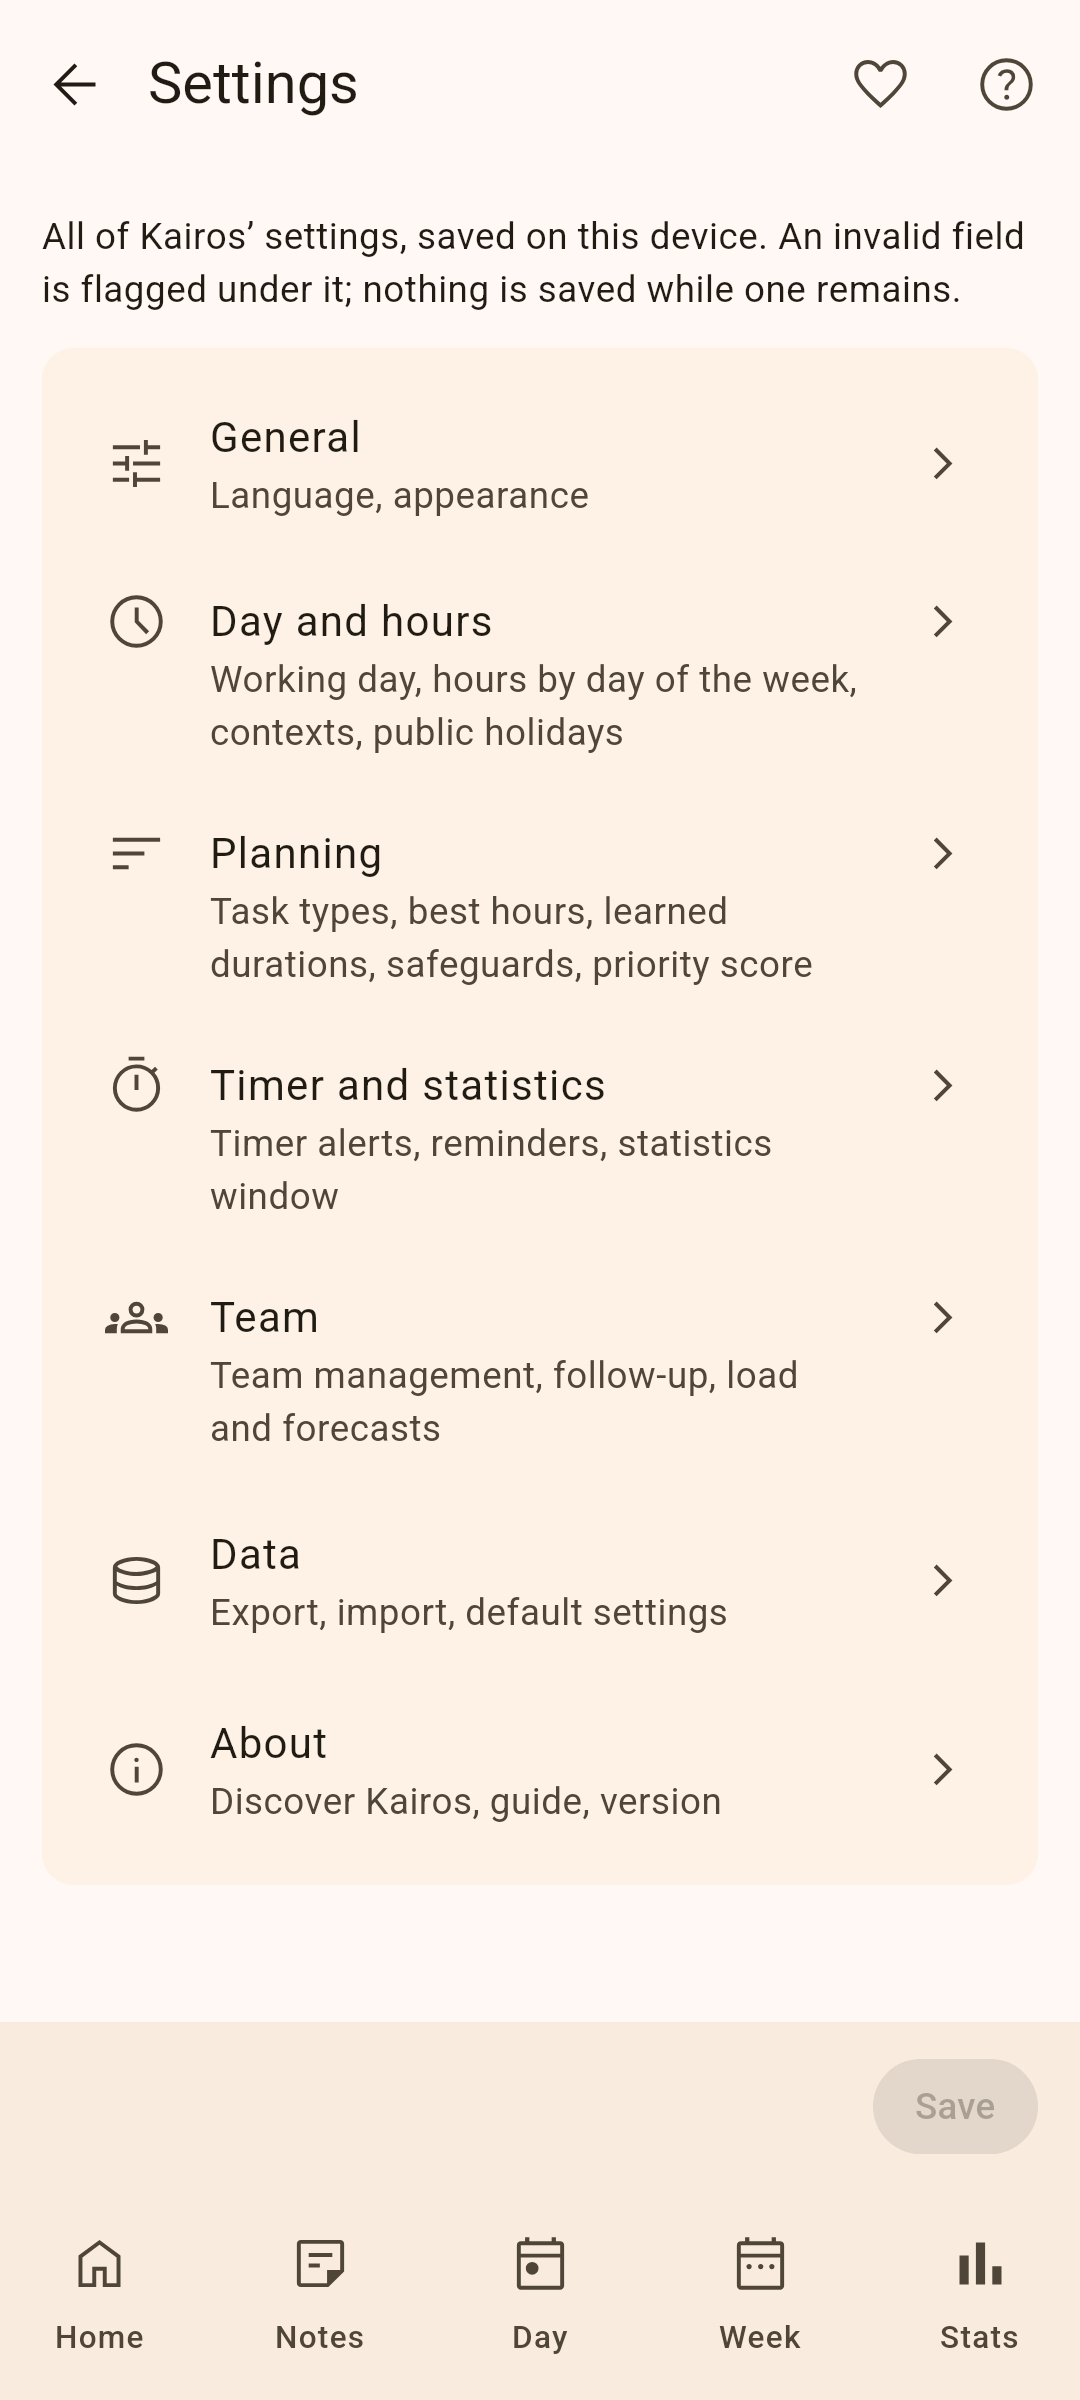
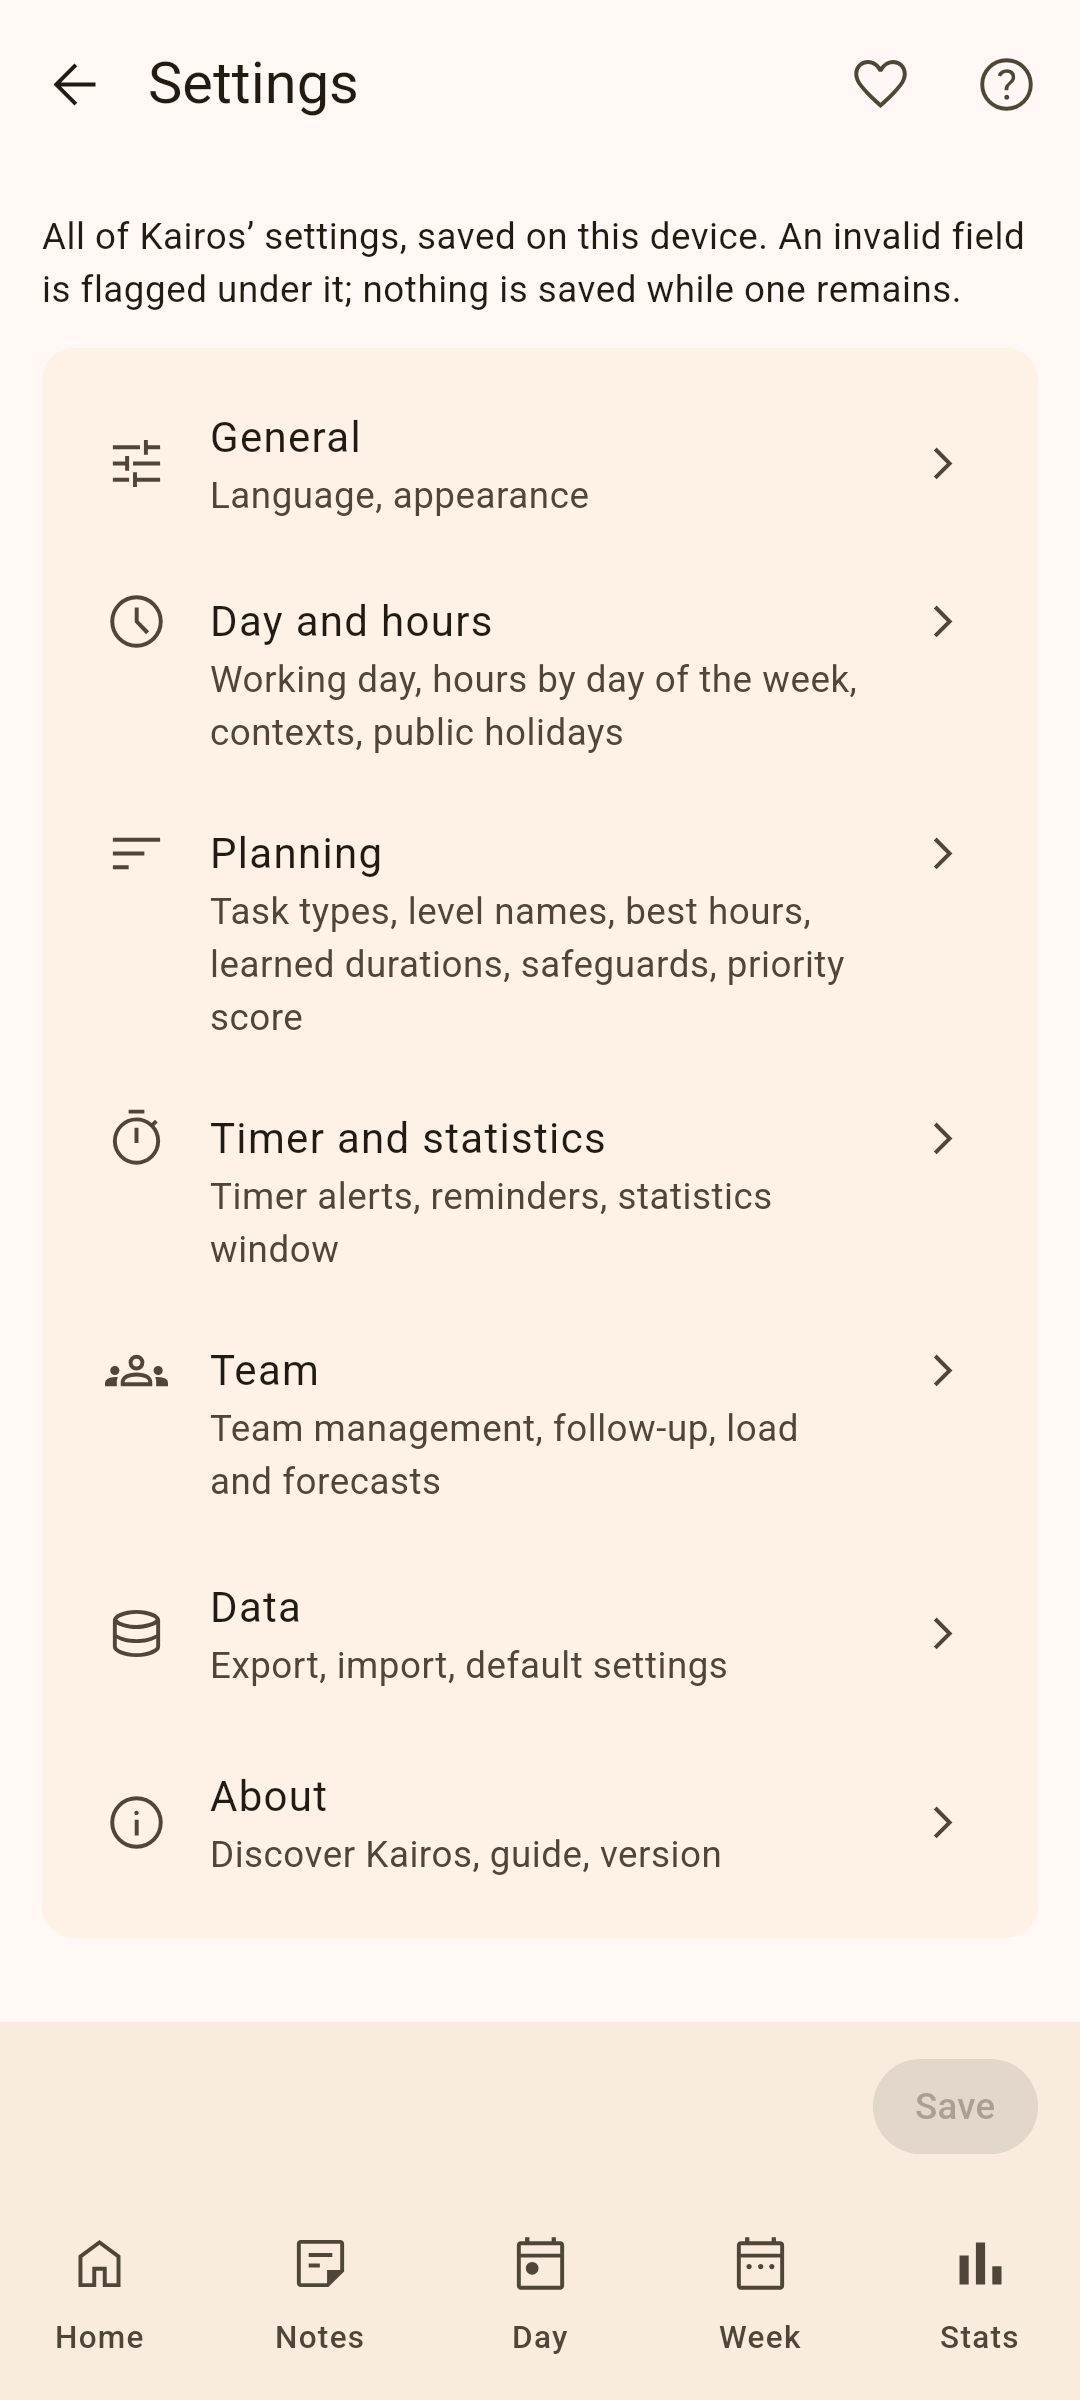
Kairos 3.9.0 : version 30900, notes de version FR/EN
- kmp/gradle.properties : 3.9.0 / 30900 ; changelogs/30900.txt en français
  et en anglais.
- Cartes since = "3.9.0" déjà posées (noms des niveaux, meilleures heures
  par l'efficacité, accompagnements) ; FeatureCatalogTest.newIn.
- Captures des magasins régénérées (Réglages : « noms des niveaux »).
- Spec distribution ; feuille de route (3.9.0 préparée, 3.10.0 prochaine,
  #75 sorti de la 3.9.0).

Claude-Session: https://claude.ai/code/session_01PYVCi3UZV3tZiWq1mBuiYp

diff --git a/docs/ROADMAP.md b/docs/ROADMAP.md
@@ -16,18 +16,18 @@ utilisateurs) ; ce document est en français comme le reste de `docs/`.
 |---|---|
 | `3.7.0` | Version préparée (`30700`, notes de version FR/EN ; tag `v3.7.0` posé par le propriétaire) : suites du guide (#94, #95), déplacer depuis la vue Semaine (#106), fériés des créneaux « jours ouvrés » par défaut (#109), export et filtres des statistiques (#113, #114), thème sombre (#72), Réglages par catégories (PR #124). |
 | `3.8.0` | Version préparée (`30800`, notes de version FR/EN ; tag `v3.8.0` posé par le propriétaire) : vue Mois (#107), créneaux mensuels (#108), une seule occurrence d'un créneau (#110), évolutions des statistiques (#112), corriger les estimations (#101), rappels (#103, spec `rappels.md`), première tâche d'équipe guidée (#97). |
-| `3.9.0` | Suites déjà spécifiées ou écartées « pour l'instant » : échanges et capacité de l'Équipe (#104, #120, #121), accompagnement des récurrences et des Réglages (#98), noms des niveaux (#93), meilleures heures v2 (#105), réglages avancés (#115). Brouillon, plusieurs issues y attendent encore une décision. |
+| `3.9.0` | Version préparée (`30900`, notes de version FR/EN ; tag `v3.9.0` posé par le propriétaire) : noms des niveaux (#93), meilleures heures mesurées par l'efficacité (#105), accompagnement des récurrences et des Réglages (#98), jours et heures par membre (#104), notes dans les échanges (#120), propositions d'un membre (#121), dossier des données, diagnostic et proxy du bureau (#115, spec `bureau-avance.md`), lien « Voir la dernière version » sur Android (#143). #75 en sort (choix du propriétaire, 2026-10-24) : à ranger dans son propre milestone. |
 | `3.10.0` | Connexions externes **sans réseau ni compte** (suivi : #140) : import d'un calendrier `.ics` dans les créneaux occupés (#136, rouvre « événements de calendrier externes » d'`ordonnancement.md`), fichier lié sur le bureau et Android (#137, la moitié « écriture » de #88), créneaux lus dans les calendriers du téléphone (#138, permission `READ_CALENDAR` à trancher). Brouillon. |
 | `4.0.0` | **Version majeure** : ce qui change le modèle de données, le format d'échange ou une décision fondatrice de `docs/spec/`, donc ne peut pas entrer dans une version mineure. Aujourd'hui : synchronisation par fichier entre appareils (#88) et ses suites (#100), connexion en ligne à un calendrier (#139, rouvre « sans permission réseau »), estimateur appris (#99, réservé à une version majeure par `durees-apprises.md`), plusieurs équipes par base (#118). |
 | `Backlog` | Non planifié : décision ou spec à écrire d'abord, dépendance externe (signature, synchronisation) ou attente de retours. |
 
-Le contenu de `3.9.0`, `3.10.0` et `4.0.0` est un **brouillon de planification**
+Le contenu de `3.10.0` et `4.0.0` est un **brouillon de planification**
 (issues #93 à #121 réparties le 2026-10-19, `3.9.0` et `4.0.0` remplis le 2026-10-24,
 `3.10.0` créé le même jour pour les connexions externes) :
-un milestone se déplace librement, rien n'est promis. Seule la **prochaine version** (`3.9.0` depuis la préparation de
-la `3.8.0`, le 2026-10-24 ; ses labels d'état restent à trier par la routine `kairos-retours`) doit
-être « propre » (voir ci-dessous) ; `3.10.0` et `4.0.0` sont des horizons et gardent les
-labels d'état de leurs issues, qui disent ce qu'il reste à trancher avant de les tirer
+un milestone se déplace librement, rien n'est promis. Seule la **prochaine version** (`3.10.0` depuis la préparation de
+la `3.9.0`, le 2026-10-24 ; ses labels d'état restent à trier par la routine `kairos-retours`) doit
+être « propre » (voir ci-dessous) ; `4.0.0` est un horizon et garde les
+labels d'état de ses issues, qui disent ce qu'il reste à trancher avant de les tirer
 vers la prochaine version.
 Une version n'est plus « brouillon » quand ses issues ont une spec à jour dans
 `docs/spec/` (étape 1 du workflow de `CLAUDE.md`).
@@ -47,7 +47,7 @@ Une version n'est plus « brouillon » quand ses issues ont une spec à jour dan
 - Un **milestone** : une version quand l'issue est planifiée, `Backlog` sinon.
 - Une issue du `Backlog` porte un **label d'état** qui dit ce qui la retient ; une issue
   rangée dans **la prochaine version** n'en porte plus (`deferred` et `needs-*` sortent à la
-  planification) ; dans une version plus lointaine (`3.10.0`, `4.0.0`), elle les garde.
+  planification) ; dans une version plus lointaine (`4.0.0`), elle les garde.
 - Un retour utilisateur non encore qualifié porte `feedback` (vue `Feedback` du Project).
 - Les issues closes gardent leurs labels de type et de domaine (historique cherchable).
 
@@ -93,7 +93,7 @@ qui suit se fait en cinq minutes.
    | Vue | Type | Réglage |
    |---|---|---|
    | `Roadmap` | Board | Colonnes = `Milestone` ; filtre `-status:Done` |
-   | `Board` | Board | Colonnes = `Status` ; filtre `milestone:3.8.0,3.9.0` |
+   | `Board` | Board | Colonnes = `Status` ; filtre `milestone:3.9.0,3.10.0` |
    | `Feedback` | Table | Filtre `label:feedback status:Inbox` ; tri par date de création |
    | `Decisions` | Table | Filtre `label:needs-decision,needs-spec` ; groupé par `Milestone` |
    | `By area` | Table | Groupé par `Labels` ; filtre `-status:Done` |

diff --git a/docs/spec/distribution.md b/docs/spec/distribution.md
@@ -77,7 +77,7 @@ remplacer ; une version stable s'installe par-dessus la précédente.
   (bascule) : `3.0.0` (`30000`).
   Versions suivantes : `3.1.0` (`30100`), `3.2.0` (`30200`), `3.3.0` (`30300`), puis `3.4.0` (`30400`, issue #64 :
   horaires par jour de la semaine, durées apprises, catalogue de fonctionnalités et première tâche guidée, ergonomie et
-  réglages, retrait de l'import de l'ancienne version ; notes `30400.txt` en français et en anglais), puis `3.5.0` (`30500`, issue #64 : plusieurs plages par jour et contextes, carte Statistiques « Quand tu travailles chaque type » ; notes `30500.txt` en français et en anglais), puis `3.6.0` (`30600`, issue #64 : réglage « Meilleures heures », le planning préfère les heures habituelles ou préférées de chaque type ; notes `30600.txt` en français et en anglais), puis `3.7.0` (`30700` : thème sombre, issue #72 ; filtres et export des statistiques, #114 et #113 ; déplacer depuis la vue Semaine, #106 ; fériés des créneaux « jours ouvrés », #109 ; Réglages par catégories, PR #124 ; guide qui retient et montre l'endroit, #94 et #95 ; notes `30700.txt` en français et en anglais), puis `3.8.0` (`30800` : vue Mois, #107 ; créneaux mensuels, #108 ; une seule occurrence d'un créneau, #110 ; évolutions des statistiques, #112 ; corriger les estimations, #101 ; rappels, #103 ; première tâche d'équipe guidée, #97 ; notes `30800.txt` en français et en anglais).
+  réglages, retrait de l'import de l'ancienne version ; notes `30400.txt` en français et en anglais), puis `3.5.0` (`30500`, issue #64 : plusieurs plages par jour et contextes, carte Statistiques « Quand tu travailles chaque type » ; notes `30500.txt` en français et en anglais), puis `3.6.0` (`30600`, issue #64 : réglage « Meilleures heures », le planning préfère les heures habituelles ou préférées de chaque type ; notes `30600.txt` en français et en anglais), puis `3.7.0` (`30700` : thème sombre, issue #72 ; filtres et export des statistiques, #114 et #113 ; déplacer depuis la vue Semaine, #106 ; fériés des créneaux « jours ouvrés », #109 ; Réglages par catégories, PR #124 ; guide qui retient et montre l'endroit, #94 et #95 ; notes `30700.txt` en français et en anglais), puis `3.8.0` (`30800` : vue Mois, #107 ; créneaux mensuels, #108 ; une seule occurrence d'un créneau, #110 ; évolutions des statistiques, #112 ; corriger les estimations, #101 ; rappels, #103 ; première tâche d'équipe guidée, #97 ; notes `30800.txt` en français et en anglais), puis `3.9.0` (`30900` : noms des niveaux, #93 ; meilleures heures mesurées par l'efficacité, #105 ; accompagnement des récurrences et des Réglages, #98 ; jours et heures par membre, #104 ; notes dans les échanges, #120 ; propositions d'un membre, #121 ; dossier des données, diagnostic et proxy du bureau, #115 ; lien « Voir la dernière version » sur Android, #143 ; notes `30900.txt` en français et en anglais).
 - Formats acceptés (`AppVersion.parse`) : `X.Y.Z`, `X.Y.Z-alpha.N`,
   `X.Y.Z-beta.N` (préfixe `v` toléré ; `Y`, `Z` ≤ 99 ; `N` de 1 à 499).
 - `versionCode` (`AppVersion.versionCode`) : `X*10000 + Y*100 + Z` ; alpha :
